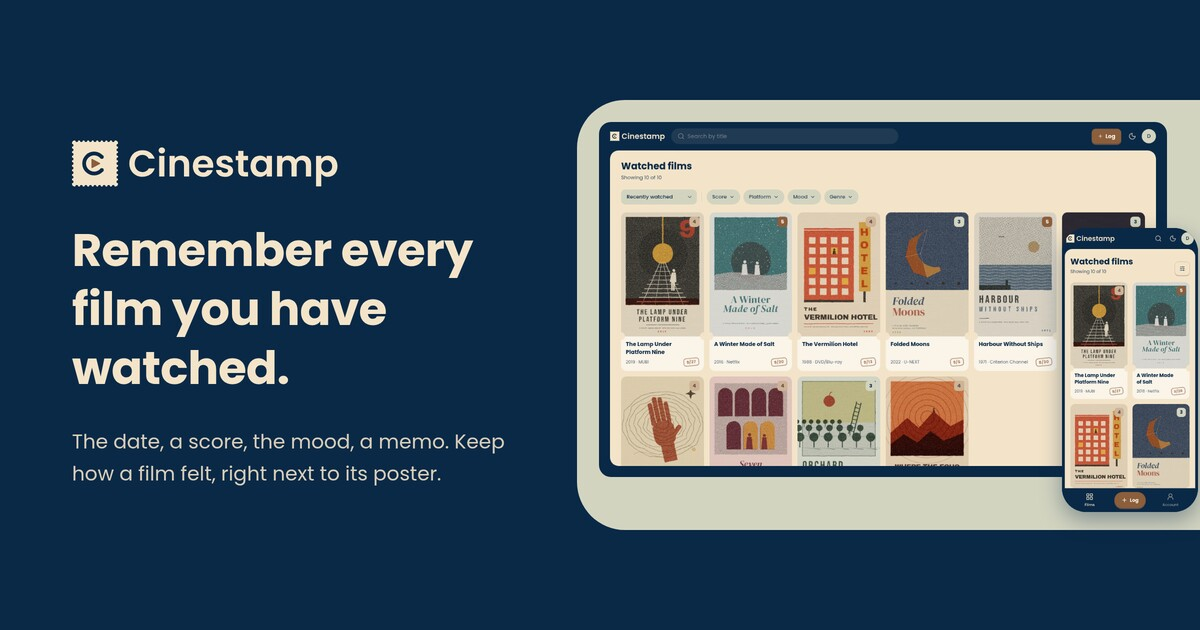
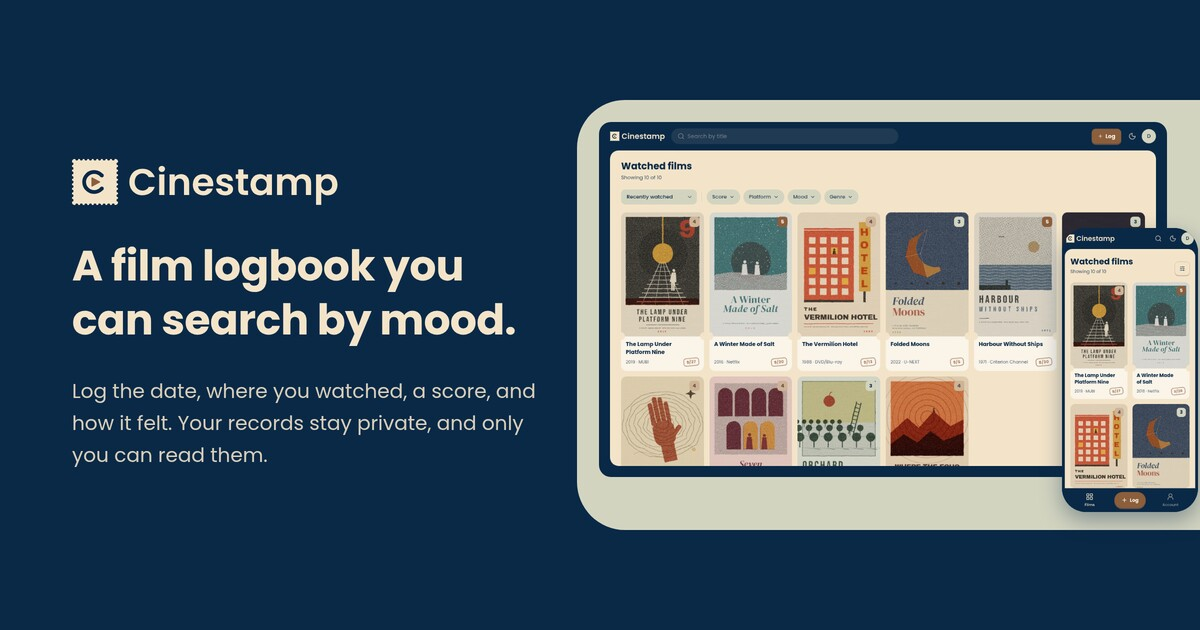
update: トップページの文言を、気分で探せることが伝わる内容に変更する

Changed region(s): [[0.0617, 0.3619, 0.4625, 0.6333], [0.0617, 0.6635, 0.4317, 0.7841], [0.0617, 0.2111, 0.3083, 0.3317]]

diff --git a/src/components/organisms/landing.tsx b/src/components/organisms/landing.tsx
@@ -70,7 +70,7 @@ export function Landing({ lang, dict }: LandingProps) {
   const registerHref = `/${lang}/register`;
 
   return (
-    <main className="shell flex flex-1 flex-col bg-sidebar text-foreground">
+    <main className="shell flex flex-1 flex-col bg-sidebar text-foreground [word-break:auto-phrase]">
       <header className="mx-auto flex h-16 w-full max-w-6xl items-center justify-between px-6">
         <Logo name={dict.brand.name} />
         <nav className="flex items-center gap-2">
